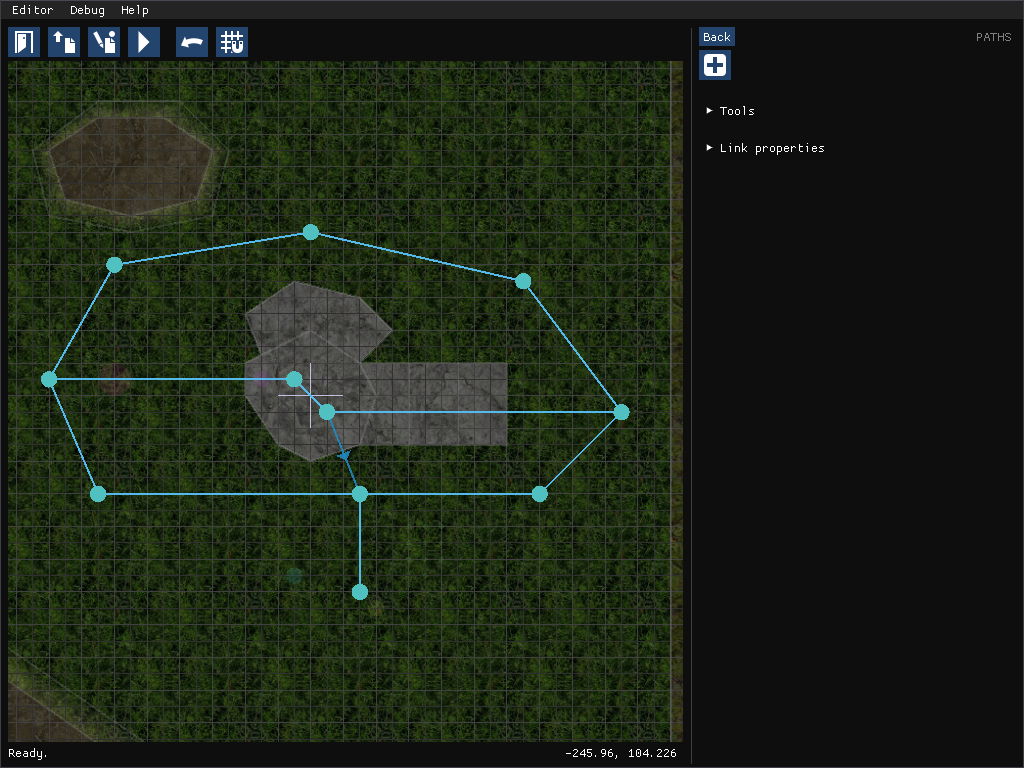
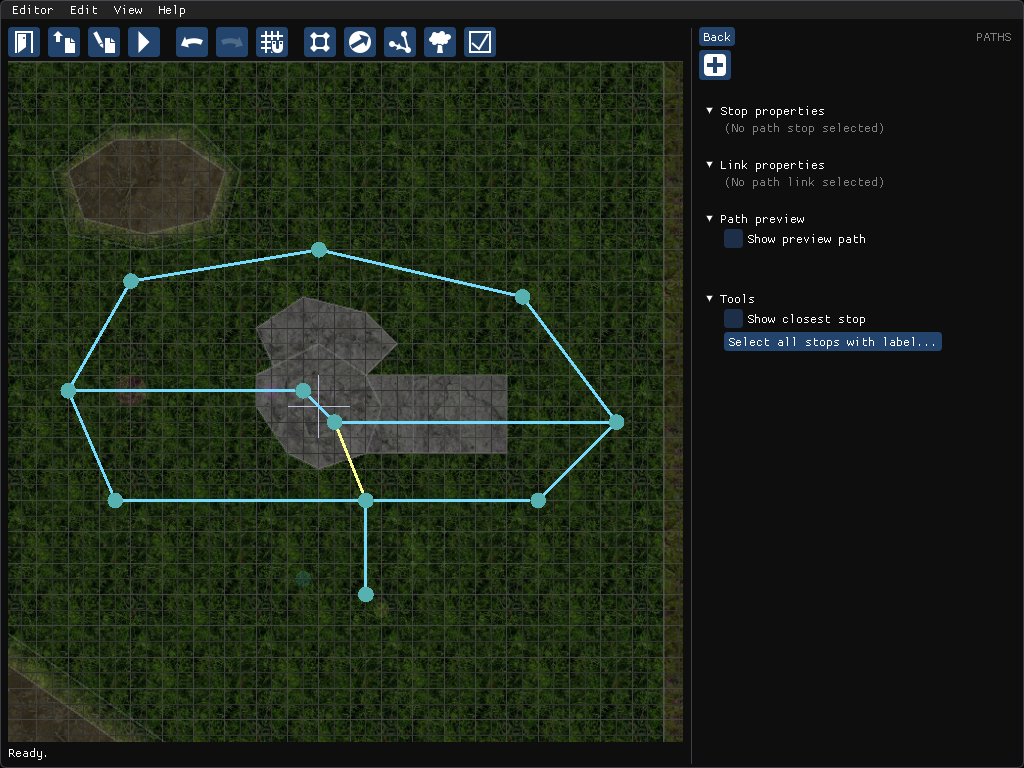
Path links are now split if the user starts/stops drawing on them. Also, updated the manual.

Changed region(s): [[0.0, 0.0312, 0.9375, 0.9688], [0.6875, 0.1875, 0.7812, 0.2188]]

diff --git a/Manual/content/area.html b/Manual/content/area.html
@@ -332,7 +332,7 @@
       <p>Some carrying paths all laid out.</p>
     </div>
     
-    <p>If you go to northeast of the central rock with some Pikmin, and lie down to have them carry you, they will most likely get stuck on the rock as they beeline to the Onion. This is because they don't know what path to take. So let's define the general path Pikmin can take around the area, and what way they should go to avoid obstacles. First of all, from the main menu panel, enter the "Paths" mode.</p>
+    <p>If you go to northeast of the central rock with some Pikmin, and lie down to have them carry you, they will most likely get stuck on the rock as they beeline to the Onion. This is because they don't know what path to take. So let's define the general path Pikmin can take around the area, and what way they should go to avoid walls. First of all, from the main menu panel, enter the "Paths" mode.</p>
     
     <dl>
       <dt><b>Press the "+" button on the panel to enter the path drawing mode.</b></dt>
@@ -341,15 +341,15 @@
       <dd>Path stops are a bit like bus stops. The carrier Pikmin go in a straight line from the previous stop to the next, then turn to face the next stop, and so on. The first stop you want to create should be very close to the Onion, or at least in the starting region.</dd>
       <dt><b>Click somewhere else to place a new stop, and connect the previous to the current one.</b></dt>
       <dd>This will create the second stop and will also link the two. Now the Pikmin know that from one stop, they can go to the other. You should place the second stop to the south of the rock sector at the center. Keep clicking around to make a path that goes around the rock and ramps (remember to go around the bridge too, since when it's built, it will be a solid obstacle in the way too!)</dd>
-      <dt><b>Normal links (recommended) allow Pikmin to go from A to B, and B to A. One-way links only allow from A to B. Change link types in the panel.</b></dt>
-      <dd>Add a one-way link that goes from the top of the rock to the path stop at the south of the rock. It would make no sense to leave this one as a normal link since Pikmin could try to follow that path and bang against the rock's wall.</dd>
+      <dt><b>Normal links allow any Pikmin to go from A to B, and B to A. Ledge links are one-way down the ledge, for walking Pikmin. Change link types in the panel.</b></dt>
+      <dd>Add a ledge-type link that goes from the top of the rock to the path stop at the south of the rock. It would make no sense to leave this one as a normal link since Pikmin could try to follow that path and bang against the rock's wall. By making it a ledge link, Pikmin atop the rock know to follow the link to drop down, but not the other way around. Unless they're Winged Pikmin!</dd>
       <dt><b>Pikmin cannot take a line in the path if there is an obstacle object touching the line.</b></dt>
       <dd>Back to two-way links, make your paths go up the big rock from the west and east sides. When making these sorts of lines, pretend all bridges are built and all gates are taken down. And make sure the line between the path stops touches any important obstacle. If the obstacle is still up, the Pikmin will understand that they cannot take this line, and will either try a different path, or wait at the stop before the obstacle.</dd>
       <dt><b>Notes:</b></dt>
       <dd><ul>
         <li>While outside of drawing mode, you can double-click a path link to split it into two, creating a stop where you click.</li>
         <li>Keep in mind Pikmin will be carrying large objects through these paths, so make sure there's enough space around them.</li>
-        <li>Pikmin go to the nearest stop when they begin carrying. Make sure that for most places, the nearest stop is not on the other side of a wall or through a hazard.</li>
+        <li>Pikmin go to the nearest stop when they begin carrying. Make sure that for most places the nearest stop is not on the other side of a wall or through a hazard.</li>
         <li>To make a path that only certain Pikmin can take, place one of that path's stops on top of a sector with a hazard. For instance, if a stop is on top of a water-hazard sector, only Blue Pikmin will go through there. Winged Pikmin will go over sectors with hazards anyway, if the hazard is on the floor only.</li>
         <li>Don't worry about making your paths 100% foolproof, since <a href="https://www.pikminwiki.com/Path_oversights">not even the canon developers can do it</a>.</li>
       </ul></dd>
@@ -472,12 +472,11 @@
     <ol>
       <li>If a path link is blocked by an obstacle, it can't be used until the obstacle is destroyed.</li>
       <li>Objects won't take a path stop if that stop is on a sector with a hazard that they are vulnerable to. If the object or its carriers can fly, and the hazard is floor-only, then this rule is ignored since the object can naturally fly over the hazard without a care. Objects can take this path again if the sector loses that hazard (e.g. a destroyed clog drains the sector's water).</li>
-      <li>Path links of the "script use only" type can only be used by objects if their script tells them to. This means Pikmin won't use this for carrying, for returning to piles, etc.</li>
-      <li>Path links of the "light load only " type can only be used by objects that are not carrying anything, or by objects that only have a weight of 1. An object that's simply holding another won't count for this, like a leader holding a Pikmin, a Pikmin holding a tool, or an enemy with Pikmin latched onto it.</li>
-      <li>Path links of the "airborne only" type can only be used by objects that can fly.</li>
+      <li>Path stops with the "script use only" property can only be used by objects if their script tells them to. This means Pikmin won't use this for carrying, for returning to piles, etc.</li>
+      <li>Path stops with the "light load only" property can only be used by objects that are not carrying anything, or are carrying objects that only have a weight of 1. An object that's simply holding another won't count for this, like a leader holding a Pikmin, a Pikmin holding a tool, or an enemy with Pikmin latched onto it.</li>
+      <li>Path stops with the "airborne only" property can only be used by objects that can fly.</li>
     </ol>
-    <p>It's also worth keeping in mind that flying objects that follow a path will still go from one stop to the next in a linear fashion, but they will also go for the spot that's 100 units above the next path stop. This means, for instance, that Winged Pikmin carrying a corpse will aim for the spot 100 units above the path stop closest to the Onion, and then will need to descend to 0 height in order to deliver to the Onion. If you separate your path stops from the destination objects, this descent will happen sooner, but don't separate them so much that your pathing becomes unreliable!</p>
-    <p>If you want a given pathway to have multiple limitations, you can just split it into two, and give each half a different type. For instance, if you want a mid-air path for light load carcasses, split that link into two, where one gets the "light load only" type, and the other gets the "airborne only" type. Grounded carcasses won't go that way because one of the links is limiting it, and airborne heavy corpses won't pass there either because of the other link's limitation.</p>
+    <p>It's also worth keeping in mind that flying objects that follow a path will still go from one stop to the next in a linear fashion, but they will also go for the spot that's 50 units above the next path stop. This means, for instance, that Winged Pikmin carrying a corpse will aim for the spot 50 units above the path stop closest to the Onion, and then will need to descend to 0 height in order to deliver to the Onion. If you separate your path stops from the destination objects, this descent will happen sooner, but don't separate them so much that your pathing becomes unreliable!</p>
 
     <h2 id="precautions">Precautions</h2>
     

diff --git a/Source/source/game_states/area_editor/event_handling.cpp b/Source/source/game_states/area_editor/event_handling.cpp
@@ -1012,6 +1012,27 @@ void area_editor::handle_lmb_down(const ALLEGRO_EVENT &ev) {
             path_stop* clicked_stop =
                 get_path_stop_under_point(game.mouse_cursor.w_pos);
                 
+            //Split a link, if one was clicked.
+            if(!clicked_stop) {
+                path_link* clicked_link_1;
+                path_link* clicked_link_2;
+                bool clicked_link =
+                    get_path_link_under_point(
+                        game.mouse_cursor.w_pos,
+                        &clicked_link_1, &clicked_link_2
+                    );
+                if(clicked_link) {
+                    register_change("path link split");
+                    clicked_stop =
+                        split_path_link(
+                            clicked_link_1, clicked_link_2,
+                            game.mouse_cursor.w_pos
+                        );
+                    clear_selection();
+                    selected_path_stops.insert(clicked_stop);
+                }
+            }
+            
             if(path_drawing_stop_1) {
                 //A starting stop already exists, so now we create a link.
                 path_stop* next_stop = NULL;
